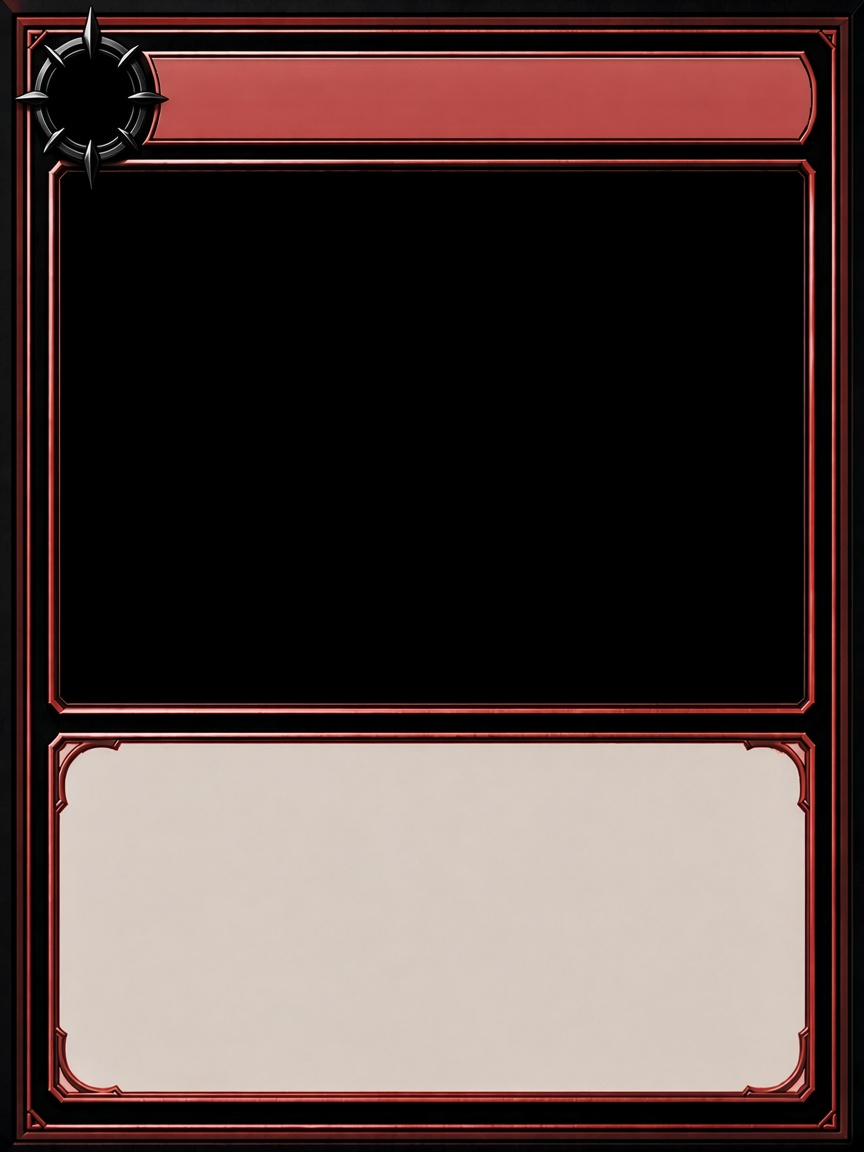
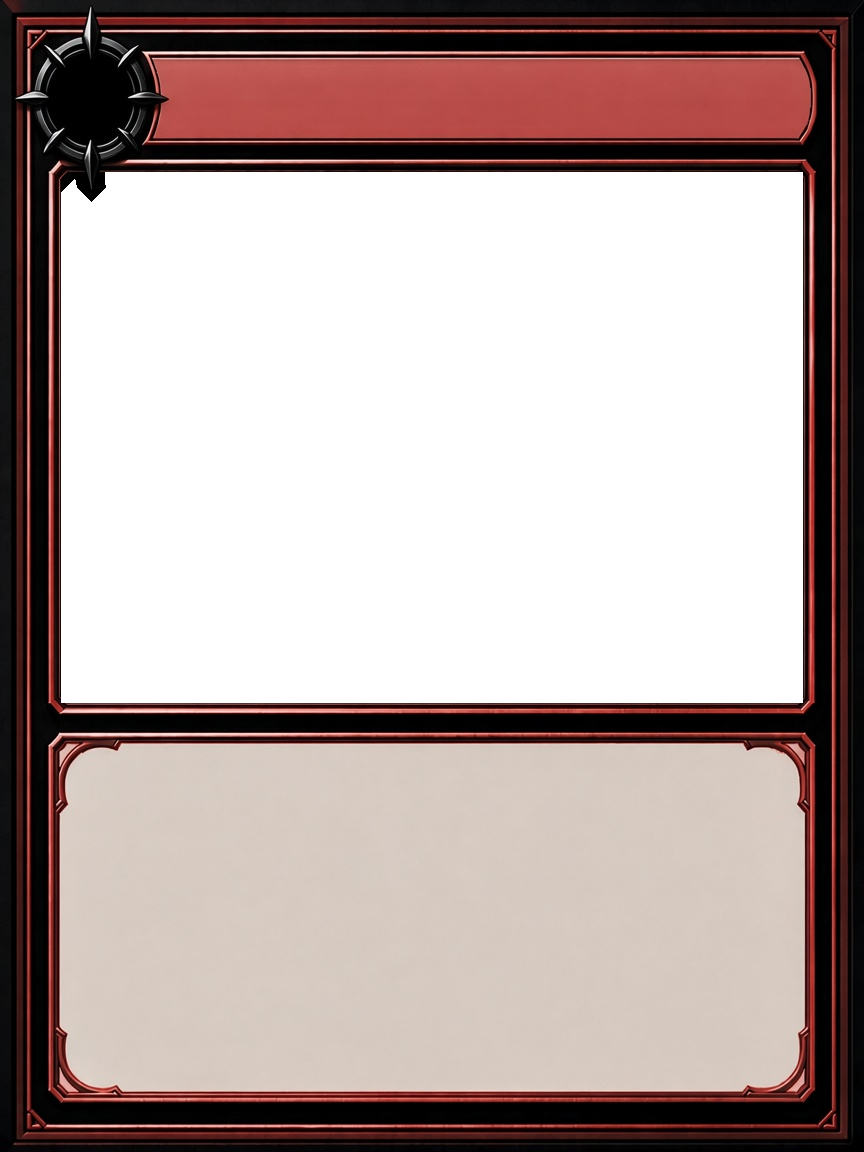
攻撃カードのマナ飾りを、星は銅・銀・金、ボスは黒にする。

diff --git a/index.html b/index.html
@@ -4385,11 +4385,13 @@
       background: var(--frame-img) center / 100% 100% no-repeat;
     }
     .card .card-fit .frame::before, .card .card-fit .frame::after { content: none; }
-    .card .card-fit.k-attack { --frame-img: url("frame-metal-red.png?v=7"); }
+    .card .card-fit.k-attack { --frame-img: url("frame-mana-copper.png?v=1"); }
+    .card .card-fit.k-attack.r2 { --frame-img: url("frame-mana-silver.png?v=1"); }
+    .card .card-fit.k-attack.r3 { --frame-img: url("frame-mana-gold.png?v=1"); }
     .card .card-fit.k-block { --frame-img: url("frame-metal-blue.png?v=7"); }
     .card .card-fit.k-skill { --frame-img: url("frame-metal-yellow.png?v=7"); }
     .card .card-fit.k-power { --frame-img: url("frame-metal-green.png?v=5"); }
-    .card .card-fit.k-attack.rboss { --frame-img: url("frame-attack-boss.png?v=3"); }
+    .card .card-fit.k-attack.rboss { --frame-img: url("frame-mana-black.png?v=1"); }
     .card .card-fit.k-block.rboss { --frame-img: url("frame-block-boss.png?v=3"); }
     .card .card-fit.k-skill.rboss { --frame-img: url("frame-skill-boss.png?v=3"); }
     .card .card-fit.k-power.rboss { --frame-img: url("frame-power-boss.png?v=3"); }
@@ -9471,7 +9473,10 @@
 
     function sourcePattern() {
       const foe = enemyNow();
-      const base = (foe.pattern || []).map((card) => applyEnemyHidden(card, foe));
+      const base = (foe.pattern || []).map((card) => {
+        const next = applyEnemyHidden(card, foe);
+        return foe.name === DUNGEON.boss ? { ...next, boss: true } : next;
+      });
       if (foe.name === "物乞い" && !swordIgnoresTrait()) {
         return base.concat((beggarGift || []).map((card) => ({ ...card })));
       }
@@ -12966,7 +12971,7 @@
           if (name === "アタック" || name === "ブロック") continue;
           if (CARDS[name] || WARRIOR[name] || COMMON[name]) continue;
           const base = CARDS[name] || WARRIOR[name] || COMMON[name] || {};
-          push(name, { ...base, ...card }, "敵");
+          push(name, { ...base, ...card, boss: foe.name === DUNGEON.boss }, "敵");
         }
       }
       for (const [name, data] of Object.entries(FOE_ONLY)) push(name, data, "敵");
@@ -13770,7 +13775,8 @@
       const stars = card.stars || 1;
       const picture = (card.image || cardArtSrc(card.name)) ? `<img src="${card.image || cardArtSrc(card.name)}" alt="">` : "";
       const rank = card.boss ? "rboss" : stars >= 3 ? "r3" : stars === 2 ? "r2" : "r1";
-      const kind = foe ? "foe" : cardKind(card);
+      const natural = cardKind(card);
+      const kind = foe && !(card.boss && natural === "attack") ? "foe" : natural;
       const genre = `<span class="genre" aria-label="ジャンル ${genreName(kind)}">${genreName(kind)}</span>`;
       return `<div class="card-fit ${rank} k-${kind}"><div class="nameplate">${costOrbs(card.cost)}<div class="name">${esc(card.name)}</div></div><div class="art" aria-hidden="true">${picture}${genre}</div><div class="text">${effects}</div><div class="rarity" aria-label="レアリティ ${stars}">${"★".repeat(stars)}</div><i class="frame" aria-hidden="true"></i></div>`;
     }
